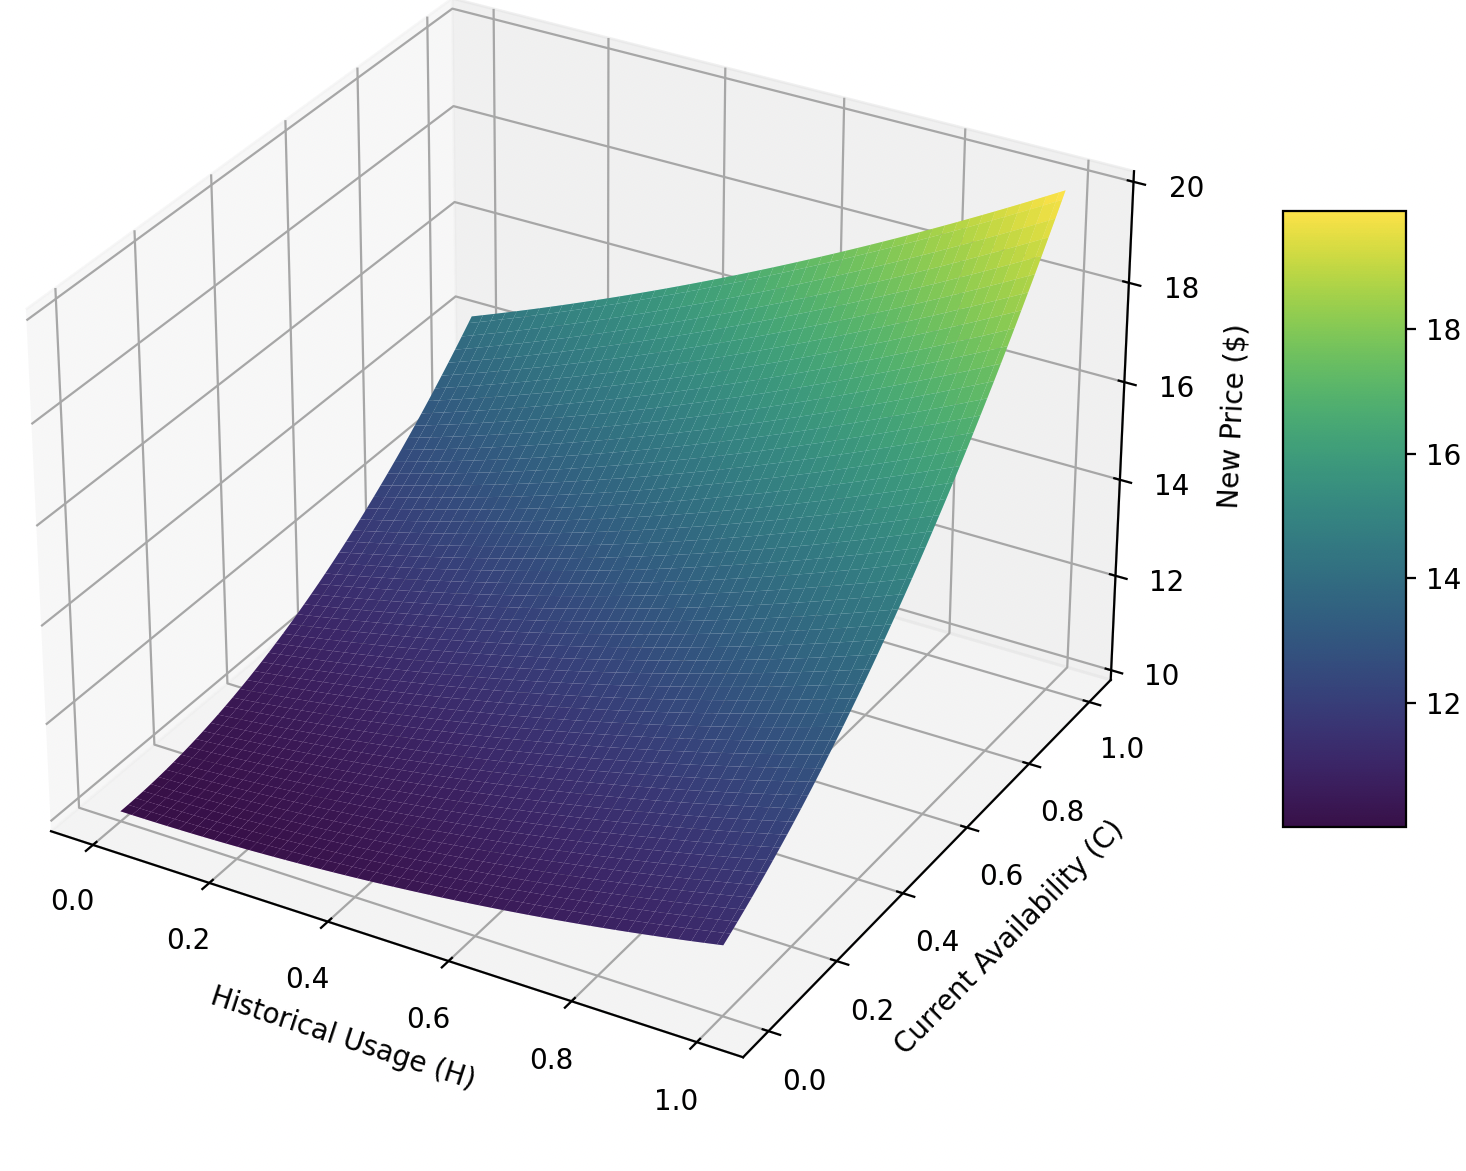
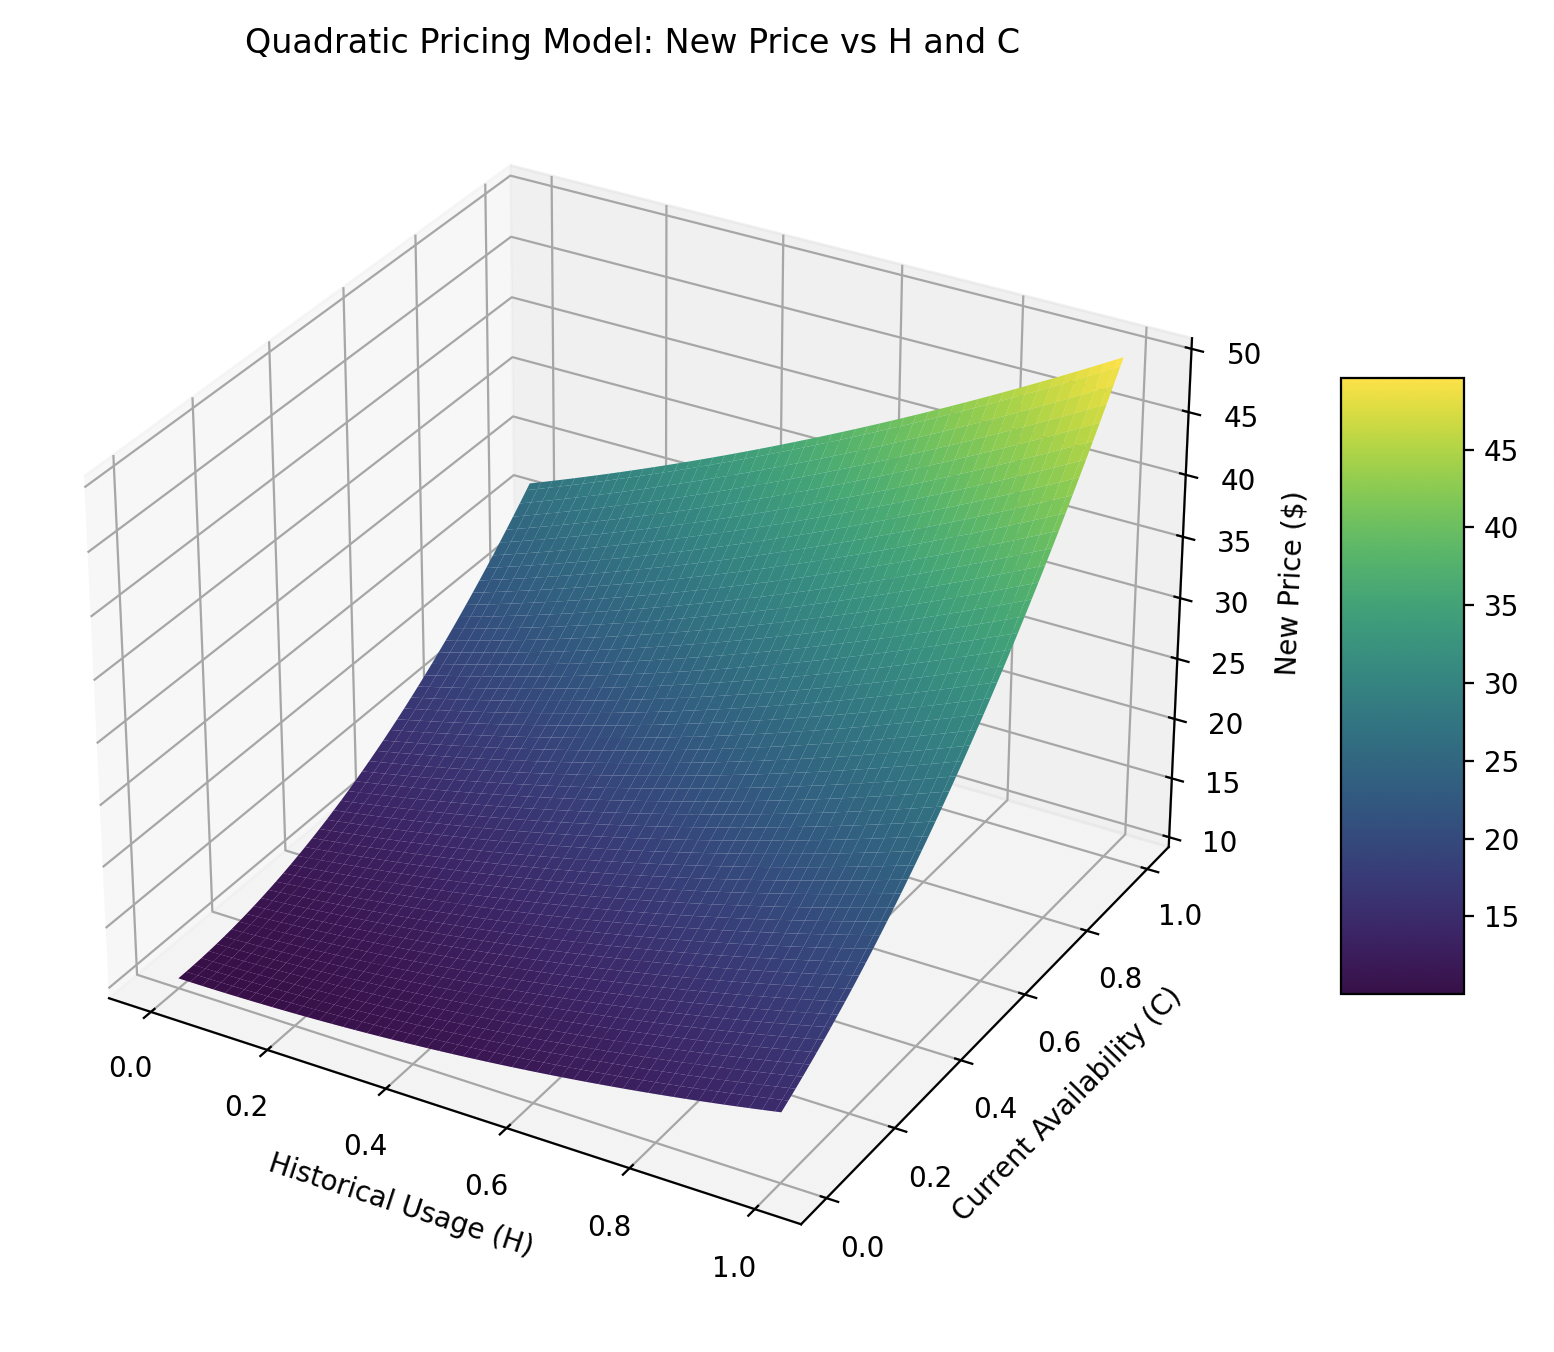
update dynamic pricing to quadratic method

diff --git a/core-concepts/protocol-stack/computing-layer/dynamic-pricing.md b/core-concepts/protocol-stack/computing-layer/dynamic-pricing.md
@@ -1,26 +1,20 @@
-# Dynamic Pricing Strategy for Computing Resources
+# Dynamic Pricing Strategy for Computing Resources: Quadratic Demand Model
 
 ## 1. Introduction
 
-In the rapidly evolving landscape of cloud computing and AI, the demand for GPU resources has skyrocketed. Our current fixed-price model has led to inefficiencies in resource allocation, with high-demand resources often unavailable to users who need them most. This document outlines a dynamic pricing strategy to address these challenges, optimize resource allocation, and enhance the overall user experience.
+In the fast-paced world of cloud computing and AI, the demand for GPU resources fluctuates rapidly. Our new dynamic pricing strategy aims to optimize resource allocation by implementing a quadratic demand model. This approach ensures that prices respond more aggressively to high demand, promoting efficient resource utilization and improved accessibility for all users.
 
-## 2. Why Dynamic Pricing?
+## 2. Why a Quadratic Demand Model?
 
-### Current Challenges:
-- GPU hardware is frequently at full capacity due to fixed pricing
-- Users may find it difficult to access high-demand resources when needed
-- Resource allocation may not align with real-time market demands
-- Lack of flexibility in responding to varying usage patterns
+### Advantages of Quadratic Pricing:
+- More responsive to high-demand situations
+- Encourages efficient resource usage during peak times
+- Provides better price signals to users about resource scarcity
+- Allows for more nuanced pricing across different demand levels
 
-### Benefits of Dynamic Pricing:
-- More efficient allocation of high-demand resources
-- Enhanced ability to meet diverse user needs
-- Improved resource utilization across different time periods
-- Greater flexibility in responding to market dynamics
+## 3. Quadratic Dynamic Pricing Model
 
-## 3. Dynamic Pricing Model
-
-Our dynamic pricing model introduces a 'demand factor' that adjusts the base price of resources in real-time based on current demand indicators.
+Our new model uses a quadratic equation to calculate the demand factor, which is then used to adjust the base price of resources in real-time.
 
 ### Core Formula:
 
@@ -34,10 +28,10 @@ Where:
 
 ### Demand Factor Calculation:
 
-The demand factor is calculated using a weighted sum of two main components:
+The demand factor is now calculated using a quadratic function:
 
 ```
-Demand Factor = 1 + (w1 * H + w2 * C)
+Demand Factor = 1 + 4 * (w1 * H + w2 * C)^2
 ```
 
 Where:
@@ -46,6 +40,8 @@ Where:
 - w1 = 0.35 (weight for historical usage)
 - w2 = 0.65 (weight for current availability)
 
+This quadratic formula ensures that the demand factor grows more rapidly as demand increases, with a maximum value of 5.0.
+
 ## 4. Components of the Demand Factor
 
 ### 4.1 Historical Resource Usage (H)
@@ -53,10 +49,6 @@ Where:
 We analyze the past 30 days of usage data, focusing on patterns in daily and weekly usage.
 
 Calculation:
-1. Calculate the average usage for each hour of the day over the past 30 days
-2. Compare the current hour's average usage to the overall average
-3. Normalize this value to a 0-1 scale
-
 ```
 H = (Current Hour Avg Usage - Overall Avg Usage) / (Max Usage - Overall Avg Usage)
 ```
@@ -73,39 +65,45 @@ Else:
     C = ((Occupied Resources / Total Resources) - 0.4) / 0.6
 ```
 
-This ensures that C ranges from 0 to 1, with 0 corresponding to 40% occupation and 1 corresponding to 100% occupation.
-
 ## 5. Price Model
 ![dynamic_pricing_chart.png](imgs/dynamic_pricing_chart.png)
 
 ## 6. Example Scenarios
 
-### Scenario 1: Normal Demand
-- Historical Usage: Avera
-- ge (H = 0.5)
-- Current Availability: 50% resources occupied (C = 0.167)
+### Scenario 1: Low Demand
+- Historical Usage: Low (H = 0.2)
+- Current Availability: 45% resources occupied (C = 0.083)
 
-Demand Factor = 1 + (0.35 * 0.5 + 0.65 * 0.167) = 1.284
-For a base price of $10/hour: New Price = 1.284 * $10 = $12.84/hour
+Weighted Sum = 0.35 * 0.2 + 0.65 * 0.083 = 0.124
+Demand Factor = 1 + 4 * (0.124)^2 = 1.061
+For a base price of $10/hour: New Price = 1.061 * $10 = $10.61/hour
 
-### Scenario 2: High Demand
+### Scenario 2: Moderate Demand
+- Historical Usage: Average (H = 0.5)
+- Current Availability: 70% resources occupied (C = 0.5)
+
+Weighted Sum = 0.35 * 0.5 + 0.65 * 0.5 = 0.5
+Demand Factor = 1 + 4 * (0.5)^2 = 2.0
+For a base price of $10/hour: New Price = 2.0 * $10 = $20/hour
+
+### Scenario 3: High Demand
 - Historical Usage: High (H = 0.8)
 - Current Availability: 90% resources occupied (C = 0.833)
 
-Demand Factor = 1 + (0.35 * 0.8 + 0.65 * 0.833) = 1.821
-For a base price of $10/hour: New Price = 1.821 * $10 = $18.21/hour
+Weighted Sum = 0.35 * 0.8 + 0.65 * 0.833 = 0.821
+Demand Factor = 1 + 4 * (0.821)^2 = 3.697
+For a base price of $10/hour: New Price = 3.697 * $10 = $36.97/hour
 
-### Scenario 3: Peak Demand
+### Scenario 4: Peak Demand
 - Historical Usage: Very High (H = 1.0)
 - Current Availability: 100% resources occupied (C = 1.0)
 
-Demand Factor = 1 + (0.35 * 1.0 + 0.65 * 1.0) = 2.0
-For a base price of $10/hour: New Price = 2.0 * $10 = $20/hour
-
-Note: The demand factor can theoretically reach up to 5.0 in extreme scenarios, allowing for significant price adjustments during periods of unprecedented demand.
+Weighted Sum = 0.35 * 1.0 + 0.65 * 1.0 = 1.0
+Demand Factor = 1 + 4 * (1.0)^2 = 5.0
+For a base price of $10/hour: New Price = 5.0 * $10 = $50/hour
 
 ## 7. Conclusion
 
-This dynamic pricing strategy aims to optimize resource allocation and provide more efficient access to computing resources. By considering both historical usage patterns and current availability, we can create a responsive pricing system that adapts to real-time market conditions. This approach will help ensure that our platform remains competitive and continues to meet the evolving needs of our diverse user base.
+Our quadratic dynamic pricing strategy represents a significant advancement in resource allocation efficiency. By implementing a model that responds more aggressively to high demand, we ensure that our pricing accurately reflects the real-time value of our computing resources. This approach not only optimizes resource utilization but also provides clearer price signals to our users, allowing them to make more informed decisions about their resource usage.
 
-As we implement and refine this system, we'll continually monitor its performance and make adjustments to ensure it meets our goals of efficiency, accessibility, and user satisfaction. Our commitment is to provide a fair and transparent pricing model that reflects the true value of our computing resources while maintaining the highest standards of service for all our users.
+As we roll out this new pricing model, we remain committed to transparency and fairness. Our goal is to create a balanced ecosystem where all users have access to the resources they need, when they need them. We will continually monitor and refine this system to ensure it meets the evolving needs of our diverse user base and maintains our position at the forefront of cloud computing technology.
